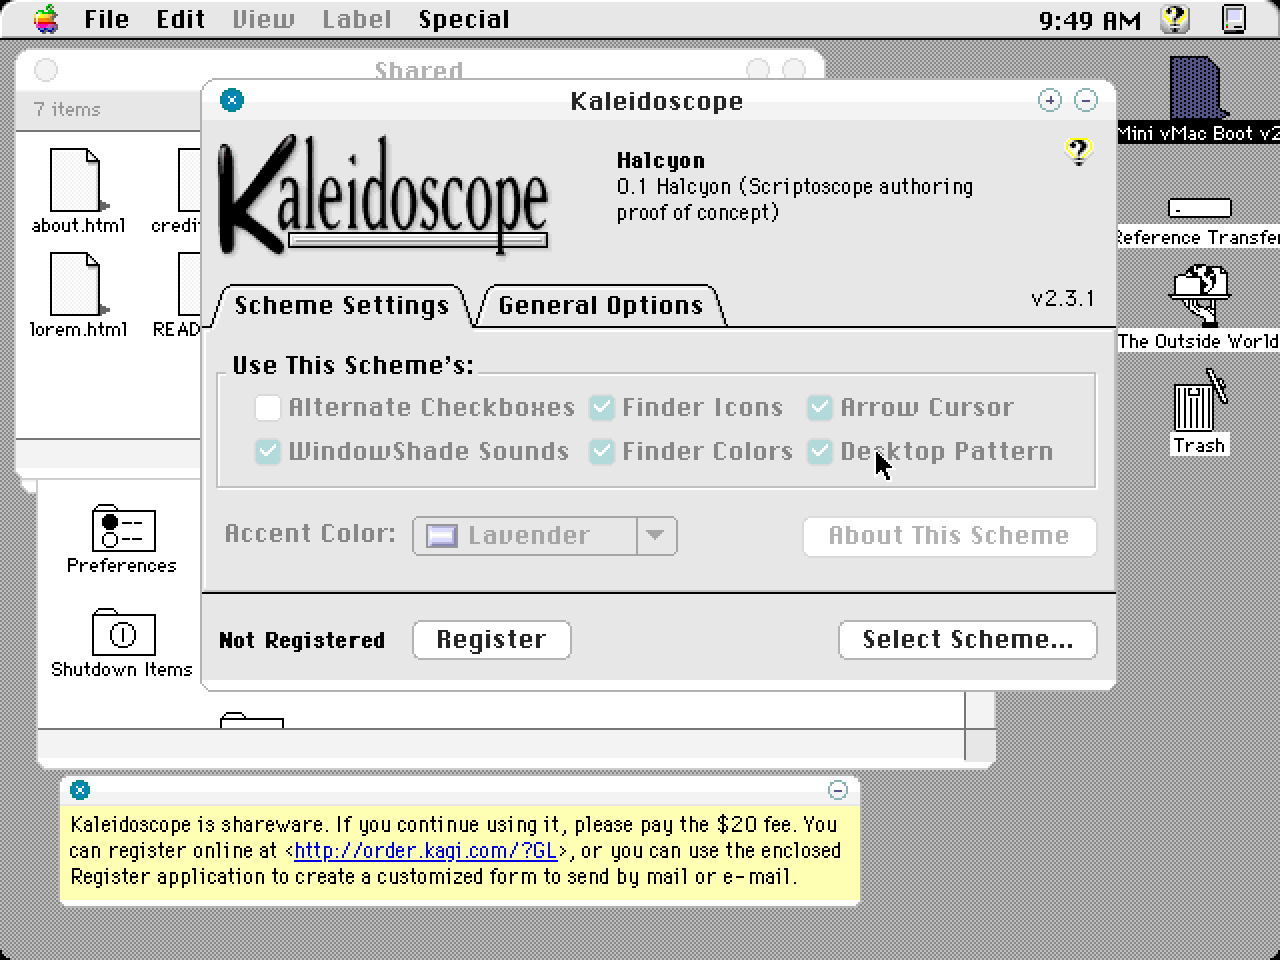
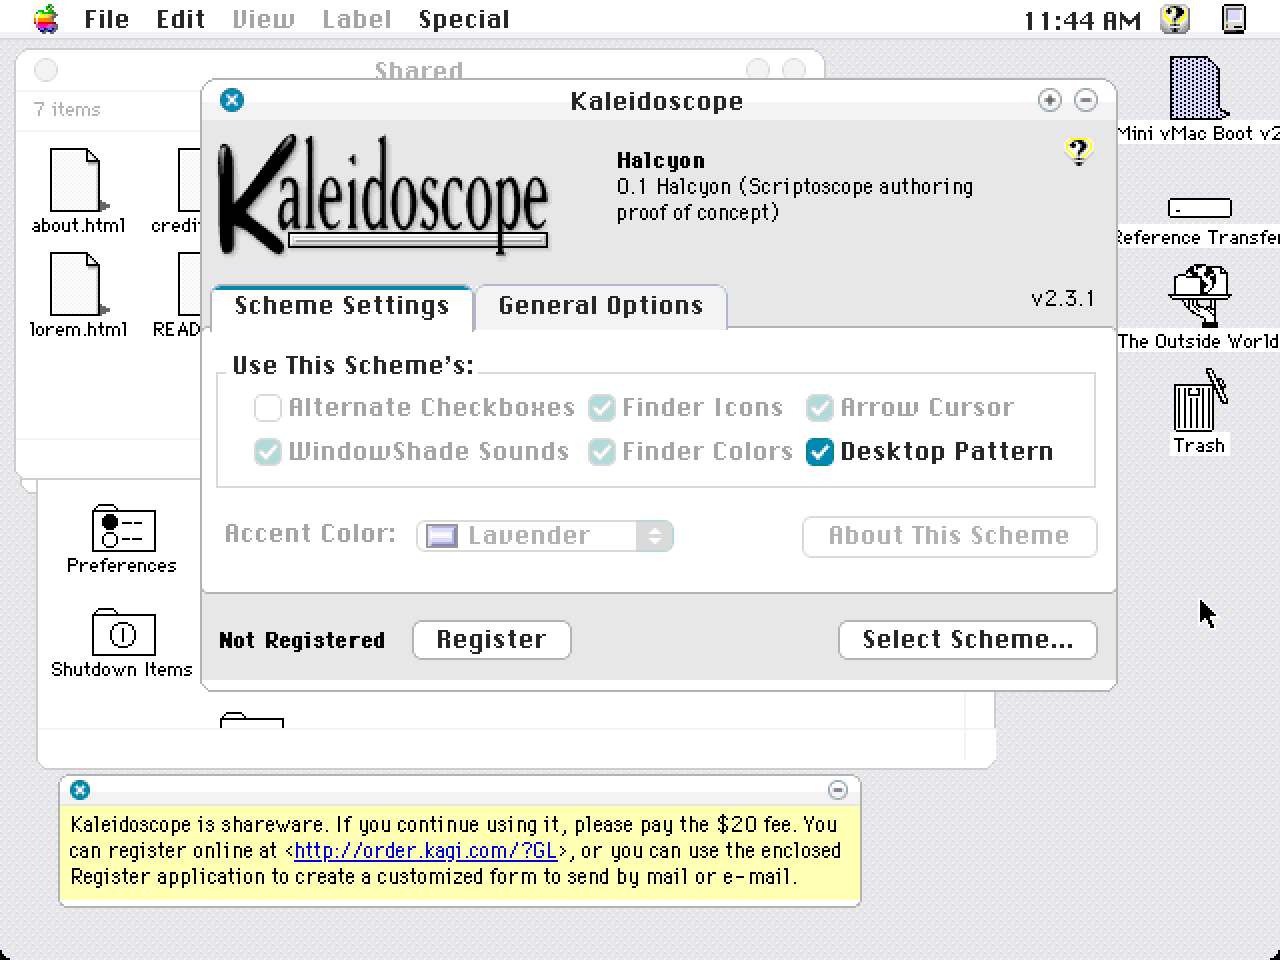
docs(authoring): real-Kaleidoscope screenshots of the complete Halcyon
Replaces the first-run screenshots with the complete scheme in Kaleidoscope
2.3.1 on System 7.5.5: the Finder list view (headers, disclosure triangles,
scroll bars, grow box), the menu bar and desktop pattern, open pull-down and
popup menus, the control panel after the tab-pane label fix, a dialog with
the default ring, and a window shade. The README records what still uses
system defaults and one unexplained detail.

diff --git a/authoring/schemes/halcyon/classic/README.md b/authoring/schemes/halcyon/classic/README.md
@@ -4,19 +4,35 @@ Screenshots of `../scheme.bin` loaded in the original Kaleidoscope 2.3.1
 control panel on System 7.5.5. They were taken in the maintainers' private
 reference emulator (Basilisk II, 8 bpp, sound off; see
 [`docs/maintainer-reference-environment.md`](../../../../docs/maintainer-reference-environment.md))
-on 2026-10-30, in one boot with no errors.
+on 2026-10-30.
 
 | File | What it shows |
 |---|---|
-| `finder-windows@2x.png` | an active Finder window over an inactive one, plus a floating window |
-| `control-panel@2x.png` | the Kaleidoscope control panel with Halcyon selected (name and version read from its `vers`) |
-| `alert-default-ring.png` | a stock alert with Halcyon's teal default-button ring |
-| `windowshade.png` | a window-shaded (collapsed) window over inactive windows |
+| `desktop@2x.png` | Finder list view with Halcyon's frame, column headers, disclosure triangles, both scroll bars, grow box, the menu bar and the desktop pattern; an inactive window behind |
+| `menu-open@2x.png` | an open pull-down menu with the teal title and item highlight |
+| `popup-menu@2x.png` | an open popup menu |
+| `control-panel@2x.png` | the Kaleidoscope control panel with Halcyon selected: tabs, tab pane, checkboxes, popup button; "Desktop Pattern" enabled |
+| `dialog@2x.png` | a stock dialog with Halcyon's push buttons and default ring |
+| `windowshade@2x.png` | a window-shaded (collapsed) window |
 
-A control run with the corpus Windows 95 scheme, installed the same way,
-behaved the same, so the install procedure isn't what made Halcyon work.
+The `@2x` files are nearest-neighbour upscales of the native 640×480 frame.
 
-These are illustrations that the generated file is a valid scheme. They are
-**not** admitted fidelity evidence (no reference-intake review, 8 bpp palette
-condition), and no golden or ledger row depends on them. The `@2x` files are
-nearest-neighbour upscales of the native 640×480 frame.
+How the runs went:
+
+- **Loading:** the first run (frames, buttons and checkboxes only) loaded in
+  one boot with no errors, and a Windows 95 control run behaved the same.
+- **Complete scheme:** it also loaded in one boot. It exposed one bug: tab-pane
+  labels were drawn white on white. A final boot confirmed the fix, and these
+  screenshots come from that build.
+- **Still on system defaults:**
+  - Finder icons, cursors and sounds (not shipped);
+  - the "Finder Colors" and "Accent Color" options;
+  - controls a control panel draws itself, such as the Memory and Sound
+    panels' sliders.
+- **Open question:** a faint white band under the inactive window's bottom
+  edge in the desktop shot is unexplained. It may be another window stacked
+  behind.
+
+These are illustrations that the generated file is a valid, complete scheme.
+They are **not** admitted fidelity evidence (no reference-intake review, 8 bpp
+palette condition), and no golden or ledger row depends on them.

diff --git a/docs/authoring-a-scheme.md b/docs/authoring-a-scheme.md
@@ -387,7 +387,7 @@ Halcyon has been loaded in the original Kaleidoscope 2.3.1 on System 7.5.5
 It loaded on the first boot with no errors, and its frames, widgets, default
 ring and checkboxes were drawn by the original engine.
 
-![Halcyon Finder windows in real Kaleidoscope](../authoring/schemes/halcyon/classic/finder-windows@2x.png)
+![Halcyon in real Kaleidoscope: Finder list view, scroll bars, menu bar and desktop pattern](../authoring/schemes/halcyon/classic/desktop@2x.png)
 
 Maintainers with the private reference emulator
 ([`maintainer-reference-environment.md`](./maintainer-reference-environment.md))
